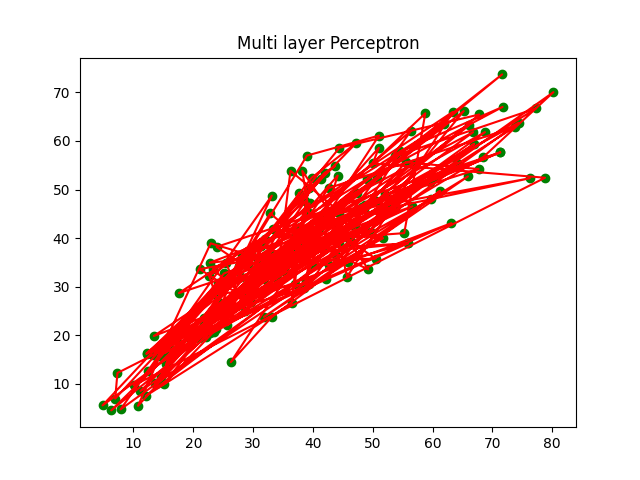
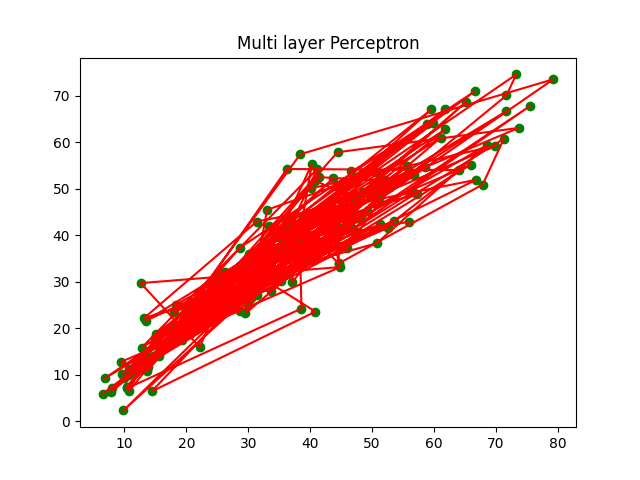
fix : some issues were fixed

diff --git a/src/mlp_regressor.py b/src/mlp_regressor.py
@@ -17,7 +17,6 @@ class MLPRepressor:    # pylint: disable=R0902
 
     def __init__(self, data_x, data_y, param_grid):
         self.data_x = data_x
-        self.data_y = data_y
         self.grid = None
         self.param_grid = param_grid
         self.train_x, self.test_x, self.y_train, self.y_test = train_test_split(data_x, data_y, test_size=0.2)
@@ -29,6 +28,8 @@ class MLPRepressor:    # pylint: disable=R0902
         """
         this function will run our neural network
         """
+        scalar = StandardScaler()
+        scalar.fit(self.data_x)
         self.grid = GridSearchCV(MLPRegressor(), self.param_grid, n_jobs=-1, cv=3)
         self.grid.fit(self.train_x, self.y_train)
         # y_pred = self.grid.predict(self.test_x)
@@ -57,16 +58,13 @@ class MLPRepressor:    # pylint: disable=R0902
         get_score = pd.DataFrame(get_score)
         get_score.to_csv(complete_name)
 
-    def plot_mlp(self, data_x):
+    def plot_mlp(self):
         """
         this function plot the results and save it and return the score
         """
         if self.grid is None:
             self.run_mlp()
-        scalar = StandardScaler()
-        scalar.fit(data_x)
         y_pred = self.grid.predict(self.test_x)
-        scalar.inverse_transform(y_pred)
         plt.scatter(self.y_test, y_pred, color='green')
         plt.plot(self.y_test, y_pred, color='red')
         plt.title('Multi layer Perceptron')

diff --git a/main.py b/main.py
@@ -14,6 +14,4 @@ instance = MLPRepressor(data[['cement', 'slag', 'flyash',
                          "solver": ["lbfgs", "sgd", "adam"], "alpha": [0.00005, 0.0005]}
                         )
 
-print(instance.plot_mlp(data[['cement', 'slag', 'flyash',
-                              'water', 'superplasticizer', 'coarseaggregate', 'fineaggregate', 'age']]
-                        .values.reshape(-1, 1)))
+print(instance.plot_mlp())
